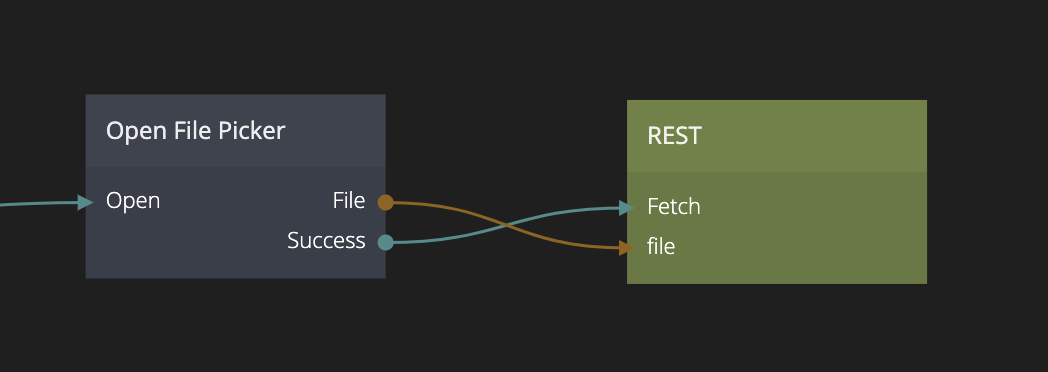
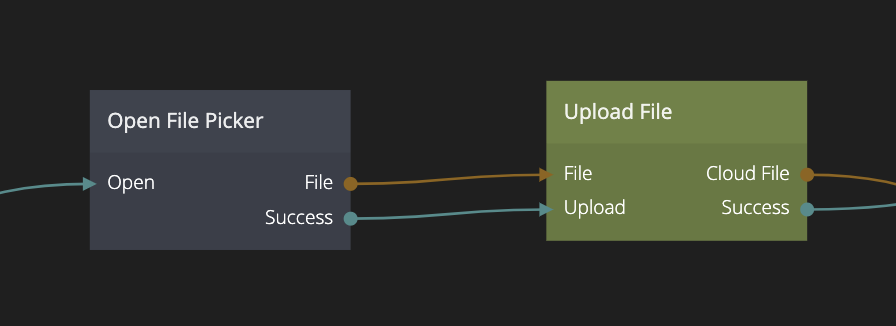
Updated cloud file docs

Changed region(s): [[0.0, 0.2454, 1.0, 0.7669], [0.9688, 0.5521, 1.0, 0.5828]]

diff --git a/2.4/nodes/utilities/open-file-picker/README.md b/2.4/nodes/utilities/open-file-picker/README.md
@@ -2,7 +2,7 @@
 
 # Open File Picker
 
-This node opens a file picker dialog. Noodle uses the system file picker dialog, meaning it works seamlessly with the users native device experience.
+This node opens a file picker dialog. Noodl uses the system file picker dialog, meaning it works seamlessly with the users native device experience.
 
 ![](open-file-picker.png ':class=img-size-l')
 
@@ -10,40 +10,36 @@ You can define what file types are allowed to be uploaded. This is done by enter
 
 <##head##>
 
-## Inputs
+## INPUTS
 
-**Open**
-A signal that opens the file picker.
+**Open**  
+<##input:open##>An action that opens the file picker.<##input##>
 
-**Accepted file types**
-A comma separated list of file types that the user can select. Leave blank to accept any file type.
+**Accepted file types**  
+<##input:accepted file types##>A comma separated list of file types that the user can select. Leave blank to accept any file type.<##input##>
 
 The file type can be specified as a filename extension, starting with a period. E.g. `.png`, `.json` or `.png, .jpg`.
 
 The type can also be specified as a [MIME type](https://developer.mozilla.org/en-US/docs/Web/HTTP/Basics_of_HTTP/MIME_types/Common_types). E.g. `image/*`, `image/png` or `video/mp4`.
 
-## Outputs
+## OUTPUTS
 
-### File
-
-**File**
-A [File](https://developer.mozilla.org/en-US/docs/Web/API/File) object. This can be used uploaded via [Upload File](/nodes/cloud-services/upload-file.md), sent as a part of a [REST](/nodes/data/rest.md) call, processed in a [Function](/nodes/javascript/function.md) node, used together with modules, or other tasks.
+**File**  
+<##output:file##>A web file API Object.<##output##> A [File](https://developer.mozilla.org/en-US/docs/Web/API/File) object. This can be used uploaded via [Upload File](/nodes/cloud-services/upload-file.md), sent as a part of a [REST](/nodes/data/rest.md) call, processed in a [Function](/nodes/javascript/function.md) node, used together with modules, or other tasks.
 
 ### Metadata
 
-**Path**
-The local path to the file.
+**Path**  
+<##output:path##>The local path to the file.<##output##>
 
-**Name**
-Name of the file, without the path.
+**Name**  
+<##output:name##>Name of the file, without the path.<##output##>
 
-**Size in bytes**
-Total size of the file in bytes
+**Size in bytes**  
+<##output:size in bytes##>Total size of the file in bytes.<##output##>
 
-**Type**
-The file type
+**Type**  
+<##output:type##>The file type<##output##>
 
-### Signals
-
-**Success**
-Triggered when the user has selected a file
+**Success**  
+<##output:success##>Triggered when the user has selected a file<##output##>

diff --git a/2.4/nodes/cloud-services/upload-file.md b/2.4/nodes/cloud-services/upload-file.md
@@ -1,11 +1,12 @@
 <##head##>
-# UPLOAD FILE
+# Upload File
 
-This node Uploads a file to cloud services. Can be used in combination with a [Model](/nodes/cloud-services/model.md) to link the file to a property of a Model. When retrieving the file reference you can get the **URL** to the file and **Name** of file using a [Cloud File](/nodes/cloud-services/cloud-file.md) node.
+This node uploads a file to the Noodl Cloud Services. Can be used in combination with a **Record** to link the file to a property. When retrieving the file reference you can get the **URL** to the file and **Name** of file using a [Cloud File](/nodes/cloud-services/cloud-file.md) node.
 
 ![](upload-file.png ':class=img-size-l')
 <##head##>
-## Inputs
+
+## INPUTS
 
 **File**  
 <##input:file##>An HTML5 [File](https://developer.mozilla.org/en-US/docs/Web/API/File). The [File Picker](/nodes/utilities/file-picker.md) can be used to open a file dialog picker and generate the **File** from a local file. It's also possible to retrieve the File from external sources, or generate it by code. <##input##>
@@ -17,7 +18,7 @@ This node Uploads a file to cloud services. Can be used in combination with a [M
 
 ### Results
 **Cloud File**  
-<##output:cloudFile##>A [Cloud File](/nodes/cloud-services/cloud-file.md), which consists of an URL and a file name. Can be connected to a property of a [Model](/nodes/cloud-services/model.md) if the property type is specified as 'File'.<##output##>
+<##output:cloudFile##>A [Cloud File](/nodes/cloud-services/cloud-file.md), which consists of an URL and a file name. Can be connected to a property of a [Record](/nodes/cloud-services/model.md) if the property type is specified as 'File'.<##output##>
 
 ### Events
 

diff --git a/2.4/nodes/cloud-services/cloud-file.md b/2.4/nodes/cloud-services/cloud-file.md
@@ -1,7 +1,7 @@
 <##head##>
-# CLOUD FILE
+# Cloud File
 
-Represents a file that has been uploaded to Noodl's cloud services and stored as a reference in the database.
+Represents a file that has been uploaded to the Noodl Cloud Services and stored as a file property in a **Record**.
 
 ![](cloud-file.png ':class=img-size-l')
 
@@ -9,12 +9,13 @@ Represents a file that has been uploaded to Noodl's cloud services and stored as
 
 ![](/upload-file.png ':class=img-size-l')
 <##head##>
-## Inputs
 
-**File**  
-<##input:file##>A file that has been stored in the cloud services. Often used in combination with a [Model](/nodes/cloud-services/model.md) to retrieve the **name** and **URL** of a file.<##input##>
+## INPUTS
 
-## Outputs
+**Cloud File**  
+<##input:cloud file##>A file that has been stored in the Noodl Cloud Services. Often used in combination with a **Record** to retrieve the **Name** and **URL** of a file.<##input##>
+
+## OUTPUTS
 
 **URL**  
 <##output:url##>The URL of the file.<##output##>
